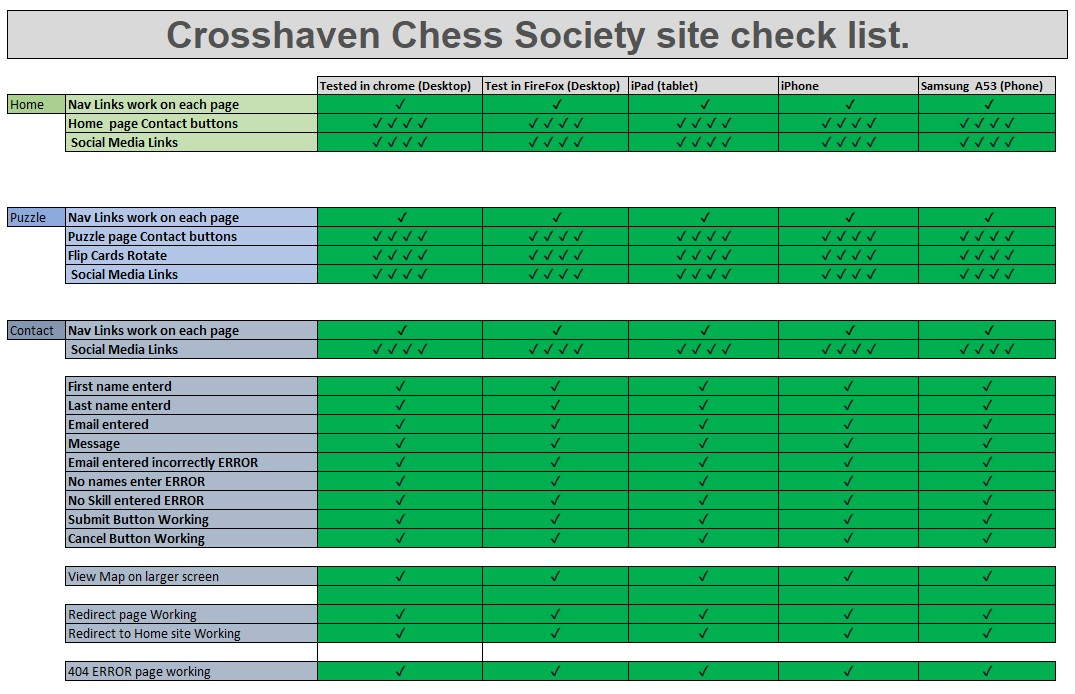
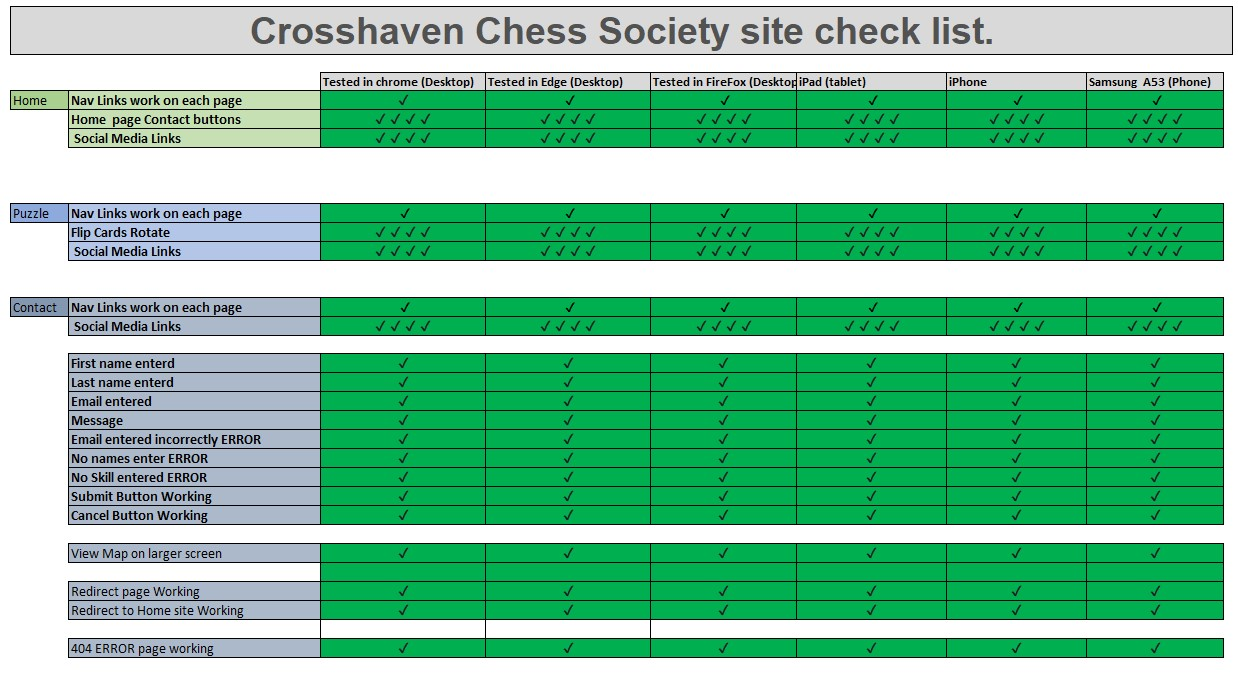
edited READMe and removed contact button

diff --git a/puzzle.html b/puzzle.html
@@ -35,7 +35,8 @@
         <div class="one" id="cover-text">
             <img src="assets/images/chess-photo-pawn-320.jpg"
                 srcset="assets/images/chess-photo-pawn-480.jpg 320w, assets/images/chess-photo-pawn-650.jpg 800w, assets/images/chess-photo-pawn-new-main60c.jpg 1200w"
-                alt="Black and White photo of a Chess pieces on a chessboard, with a pawn lying down surrounded by other pieces" sizes="100vw">
+                alt="Black and White photo of a Chess pieces on a chessboard, with a pawn lying down surrounded by other pieces"
+                sizes="100vw">
             <br><br>
         </div>
     </section>
@@ -85,7 +86,6 @@
                                     Black to move, <br>Move Rook to d1. <br>White King moves to H2. <br>Next Rook takes
                                     white Rook.<br> White Queen moves to E8.<br><br>
 
-                                    <a href="signup.html" class="form-submit-button">Contact to learn more</a>
                                 </p>
                             </div>
                         </div>
@@ -103,7 +103,6 @@
                                 <h2>Solution, Intermediate: </h2>
                                 <p>
                                     1.Nf6+. <br> 2.Ba3#.<br><br><br><br><br><br>
-                                    <a href="signup.html" class="form-submit-button">Contact to learn more</a>
                                 </p>
                             </div>
                         </div>
@@ -123,7 +122,6 @@
                                 <h2>Solution, Advanced:</h2>
                                 <p>
                                     1.Bxb7.<br>2.Bxd2+.<br>3.Bd5.<br>4.b6.<br>5.b7.<br>6.b8=Q.<br><br>
-                                    <a href="signup.html" class="form-submit-button">Contact to learn more</a>
                                 </p>
                             </div>
                         </div>
@@ -151,7 +149,6 @@
                                     5.Rb3+ Qb3.<br>
 
                                     6.Nc5.<br><br>
-                                    <a href="signup.html" class="form-submit-button">Contact to learn more</a>
                                 </p>
                             </div>
                         </div>
@@ -202,9 +199,9 @@
                 </a>
             </li>
         </ul>
-    <div id="disclaimer" class="footer-text">
-        Disclaimer: this website is for educational purposes only.
-    </div>
+        <div id="disclaimer" class="footer-text">
+            Disclaimer: this website is for educational purposes only.
+        </div>
     </footer>
     <!-- font awesome script -->
     <script src="https://kit.fontawesome.com/3e15c9c764.js" crossorigin="anonymous"></script>

diff --git a/README.md b/README.md
@@ -193,7 +193,7 @@ The fonts chosen for the website were Anton for headings and Commissioner for th
 
 
 ### Site Validation
-
+* Each page of the site was tested, contact links, social media, flip cards, Nav bar on each page. checklist is below.
 ![Check-List](documentation/checklist.jpg)
 
 
